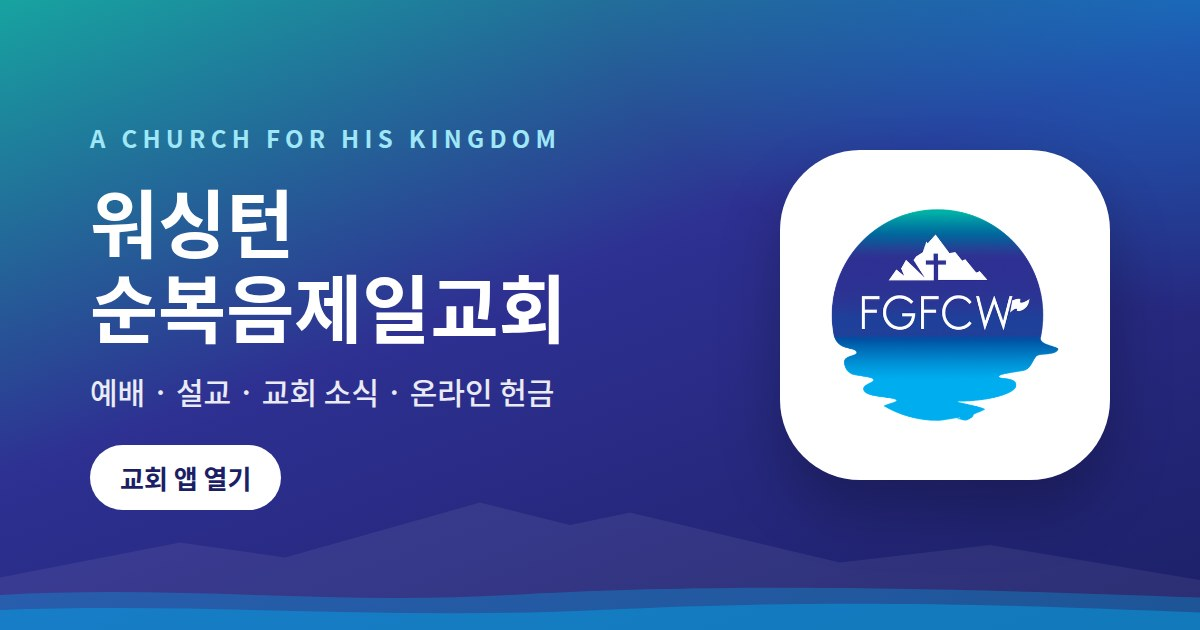
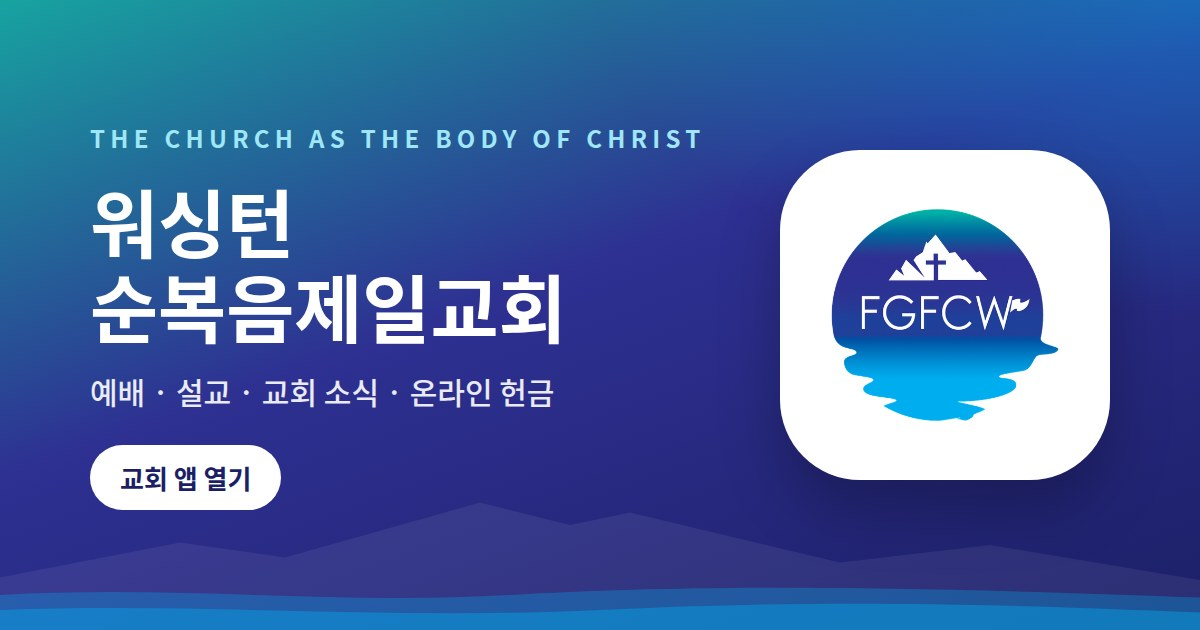
교회 문구 변경: The Church as the Body of Christ (홈 상단, 공유 이미지)
Claude-Session: https://claude.ai/code/session_01TE1yiWrD44KhJteNhegY9e

Changed region(s): [[0.0617, 0.181, 0.5858, 0.2413]]

diff --git a/index.html b/index.html
@@ -47,7 +47,7 @@
           <path d="M0 92 C60 84 110 100 170 92 S290 84 400 94 L400 120 L0 120 Z" fill="rgba(0,174,239,.30)"/>
           <path d="M0 104 C70 98 130 112 200 104 S320 98 400 106 L400 120 L0 120 Z" fill="rgba(0,174,239,.40)"/>
         </svg>
-        <div class="hero-kicker">A CHURCH FOR HIS KINGDOM</div>
+        <div class="hero-kicker">THE CHURCH AS THE BODY OF CHRIST</div>
         <div class="hero-title">주님의 이름으로<br>환영합니다</div>
         <div class="next" id="nextService">
           <span class="next-label">다음 예배</span>

diff --git a/sw.js b/sw.js
@@ -1,5 +1,5 @@
 // 앱이 인터넷 없이도 열리도록 기본 파일을 저장해 둡니다
-var CACHE = 'fgfcw-v17';
+var CACHE = 'fgfcw-v18';
 var FILES = ['./', 'index.html', 'style.css', 'app.js', 'manifest.webmanifest',
   'icons/emblem.png', 'icons/icon-192.png', 'icons/icon-512.png', 'icons/apple-touch-icon.png'];
 
